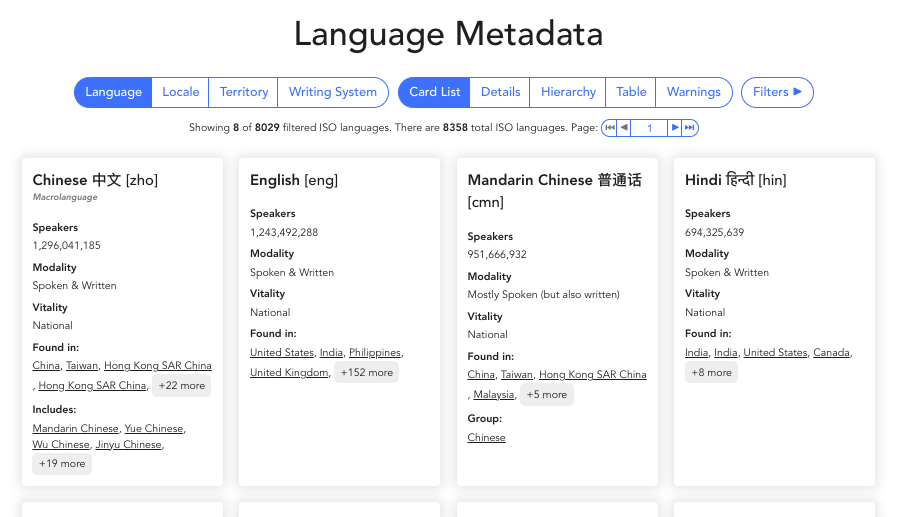
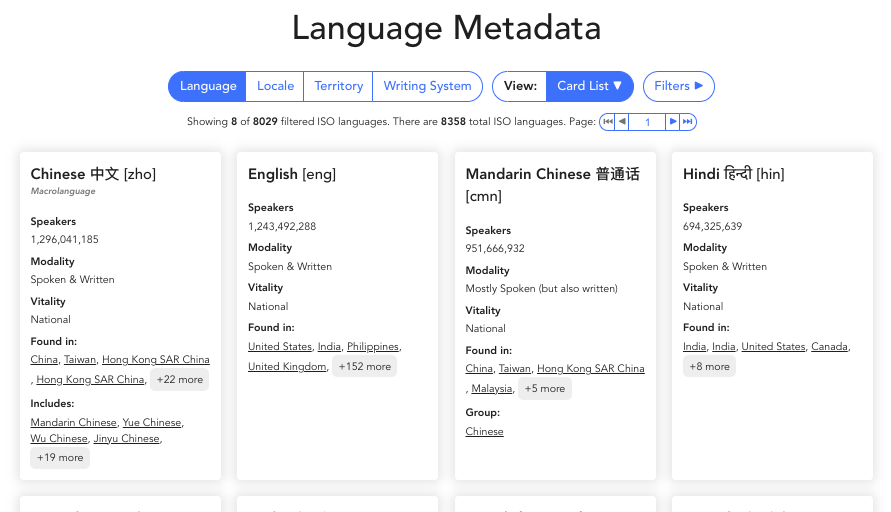
Controls: Make dropdowns for selectors

diff --git a/src/controls/selectors/ViewSelector.tsx b/src/controls/selectors/ViewSelector.tsx
@@ -1,14 +1,14 @@
 import React from 'react';
 
 import { ViewType } from '../../types/PageParamTypes';
-import ButtonGroupSingleChoice from '../ButtonGroupSingleChoice';
 import { usePageParams } from '../PageParamsContext';
+import SingleSelector from '../SingleSelector';
 
 const ViewSelector: React.FC = () => {
   const { viewType, updatePageParams } = usePageParams();
 
   return (
-    <ButtonGroupSingleChoice<ViewType>
+    <SingleSelector<ViewType>
       options={[
         ViewType.CardList,
         ViewType.Details,
@@ -16,54 +16,29 @@ const ViewSelector: React.FC = () => {
         ViewType.Table,
         ViewType.Warnings,
       ]}
+      groupLabel="View:"
       onChange={(viewType: ViewType) => updatePageParams({ viewType, objectID: undefined })}
       selected={viewType}
-      getOptionDescription={() => (
-        <>
-          Decide how you want to view the data.
-          <div
-            style={{
-              display: 'flex',
-              flexDirection: 'row',
-              flexWrap: 'wrap',
-              justifyContent: 'space-between',
-            }}
-          >
-            <div>
-              <label>Card List:</label>
-              <div>
-                <img src="cardlist.png" width={180} />
-              </div>
-            </div>
-            <div>
-              <label>Details:</label>
-              <div>
-                <img src="details.png" width={180} />
-              </div>
-            </div>
-            <div>
-              <label>Hierarchy:</label>
-              <div>
-                <img src="hierarchy.png" width={180} />
-              </div>
-            </div>
-            <div>
-              <label>Table:</label>
-              <div>
-                <img src="table.png" width={180} />
-              </div>
-            </div>
-            <div>
-              <label>Warnings:</label>
-              <div>
-                <img src="warnings.png" width={180} />
-              </div>
-            </div>
-          </div>
-        </>
-      )}
+      getOptionDescription={(option) => {
+        return <img src={getImageSrc(option)} width={180} />;
+      }}
     />
   );
 };
+
+function getImageSrc(viewType: ViewType): string {
+  switch (viewType) {
+    case ViewType.CardList:
+      return 'cardlist.png';
+    case ViewType.Details:
+      return 'details.png';
+    case ViewType.Hierarchy:
+      return 'hierarchy.png';
+    case ViewType.Table:
+      return 'table.png';
+    case ViewType.Warnings:
+      return 'warnings.png';
+  }
+}
 
 export default ViewSelector;

diff --git a/src/controls/SingleSelector.tsx b/src/controls/SingleSelector.tsx
@@ -1,0 +1,61 @@
+import React, { useState } from 'react';
+
+import './styles.css';
+import HoverableButton from '../generic/HoverableButton';
+
+type SingleSelectorProps<T extends React.Key> = {
+  getOptionDescription?: (value: T) => React.ReactNode;
+  getOptionLabel?: (value: T) => React.ReactNode; // optional label renderer
+  groupLabel?: string;
+  mode?: 'dropdown' | 'flat';
+  onChange: (value: T) => void;
+  options: readonly T[];
+  selected: T;
+};
+
+function SingleSelector<T extends React.Key>({
+  getOptionDescription = () => undefined,
+  getOptionLabel = (val) => val as string,
+  groupLabel,
+  mode = 'dropdown',
+  onChange,
+  options,
+  selected,
+}: SingleSelectorProps<T>) {
+  const [expanded, setExpanded] = useState(false);
+  const contents = options.map((option) => (
+    <HoverableButton
+      key={option}
+      hoverContent={getOptionDescription(option)}
+      onClick={() => {
+        setExpanded(false);
+        onChange(option);
+      }}
+      className={selected === option ? 'selected' : ''}
+    >
+      {getOptionLabel(option)}
+    </HoverableButton>
+  ));
+
+  return (
+    <div className="selector">
+      {groupLabel != null && <label>{groupLabel}</label>}
+      {mode == 'flat' ? (
+        contents
+      ) : (
+        <>
+          <button className="selected LastChild" onClick={() => setExpanded((prev) => !prev)}>
+            {getOptionLabel(selected)} ▼
+          </button>
+          {expanded && (
+            <div className="SelectorPopupAnchor">
+              <div className="SelectorPopup">{contents}</div>
+            </div>
+          )}
+        </>
+      )}
+    </div>
+  );
+}
+
+export default SingleSelector;

diff --git a/src/controls/styles.css b/src/controls/styles.css
@@ -3,7 +3,7 @@
     margin-left: 0.125em;
     margin-right: 1em;
     display: inline-flex;
-    align-items: center;
+    align-items: end;
     margin-bottom: 1rem;
 }
 
@@ -14,6 +14,7 @@
     line-height: 1.5;
     padding: .5rem 1rem;
     font-size: 1.2em;
+    white-space: nowrap;
 }
 
 .selector button {
@@ -54,7 +55,7 @@
     border-top-left-radius: 2em;
 }
 
-.selector :last-child {
+.selector :last-child, .selector .LastChild {
     border-bottom-right-radius: 2em;
     border-top-right-radius: 2em;
 }
@@ -78,4 +79,39 @@
 .selector button:disabled, .selector button:disabled:hover {
     color: var(--color-text-secondary);
     pointer-events: none;
+}
+
+.SelectorPopupAnchor {
+    position: relative;
+}
+
+.SelectorPopup {
+    background: var(--color-background);
+    border: 0.125em solid var(--color-button-primary);
+    align-items: end;
+    position: absolute;
+    display: flex;
+    right: 0px;
+    flex-direction: column;
+    border-radius: 1.15em !important;
+    width: fit-content;
+    z-index: 10;
+}
+
+.SelectorPopup button {
+    border: none;
+    border-radius: 0px;
+    width: 100%;
+    line-height: 1;
+    font-size: 1em;
+    text-align: end;
+    margin: 0px;
+}
+
+.SelectorPopup :first-child {
+    border-radius: 1em 1em 0em 0em;
+}
+
+.SelectorPopup :last-child {
+    border-radius: 0em 0em 1em 1em;
 }

diff --git a/src/controls/selectors/SortBySelector.tsx b/src/controls/selectors/SortBySelector.tsx
@@ -2,8 +2,8 @@ import React from 'react';
 
 import Hoverable from '../../generic/Hoverable';
 import { SortBy, ViewType } from '../../types/PageParamTypes';
-import ButtonGroupSingleChoice from '../ButtonGroupSingleChoice';
 import { usePageParams } from '../PageParamsContext';
+import SingleSelector from '../SingleSelector';
 
 const SortBySelector: React.FC = () => {
   const { sortBy, updatePageParams, viewType } = usePageParams();
@@ -14,7 +14,7 @@ const SortBySelector: React.FC = () => {
 
   return (
     <Hoverable hoverContent={`Choose the order of items in the view.`}>
-      <ButtonGroupSingleChoice<SortBy>
+      <SingleSelector<SortBy>
         options={Object.values(SortBy)}
         onChange={(sortBy: SortBy) => updatePageParams({ sortBy })}
         selected={sortBy}

diff --git a/src/controls/selectors/LocaleSeparatorSelector.tsx b/src/controls/selectors/LocaleSeparatorSelector.tsx
@@ -2,15 +2,15 @@ import React from 'react';
 
 import Hoverable from '../../generic/Hoverable';
 import { LocaleSeparator } from '../../types/PageParamTypes';
-import ButtonGroupSingleChoice from '../ButtonGroupSingleChoice';
 import { usePageParams } from '../PageParamsContext';
+import SingleSelector from '../SingleSelector';
 
 const LocaleSeparatorSelector: React.FC = () => {
   const { localeSeparator, updatePageParams } = usePageParams();
 
   return (
     <Hoverable hoverContent={`Choose the order of items in the view.`}>
-      <ButtonGroupSingleChoice<LocaleSeparator>
+      <SingleSelector<LocaleSeparator>
         options={['_', '-']}
         onChange={(localeSeparator: LocaleSeparator) => updatePageParams({ localeSeparator })}
         selected={localeSeparator}

diff --git a/src/controls/selectors/DimensionSelector.tsx b/src/controls/selectors/DimensionSelector.tsx
@@ -1,18 +1,19 @@
 import React from 'react';
 
 import { Dimension } from '../../types/PageParamTypes';
-import ButtonGroupSingleChoice from '../ButtonGroupSingleChoice';
 import { usePageParams } from '../PageParamsContext';
+import SingleSelector from '../SingleSelector';
 
 const DimensionSelector: React.FC = () => {
   const { dimension, updatePageParams } = usePageParams();
 
   return (
-    <ButtonGroupSingleChoice<Dimension>
+    <SingleSelector<Dimension>
       options={Object.values(Dimension)}
       onChange={(dimension: Dimension) =>
         updatePageParams({ dimension, codeFilter: '', nameFilter: '' })
       }
+      mode="flat"
       selected={dimension}
       getOptionDescription={(dimension) => (
         <>

diff --git a/src/controls/selectors/LanguageSchemaSelector.tsx b/src/controls/selectors/LanguageSchemaSelector.tsx
@@ -1,14 +1,14 @@
 import React from 'react';
 
 import { LanguageSchema } from '../../types/LanguageTypes';
-import ButtonGroupSingleChoice from '../ButtonGroupSingleChoice';
 import { usePageParams } from '../PageParamsContext';
+import SingleSelector from '../SingleSelector';
 
 const LanguageSchemaSelector: React.FC = () => {
   const { languageSchema, updatePageParams } = usePageParams();
 
   return (
-    <ButtonGroupSingleChoice<LanguageSchema>
+    <SingleSelector<LanguageSchema>
       options={Object.values(LanguageSchema)}
       onChange={(languageSchema: LanguageSchema) => updatePageParams({ languageSchema })}
       selected={languageSchema}
